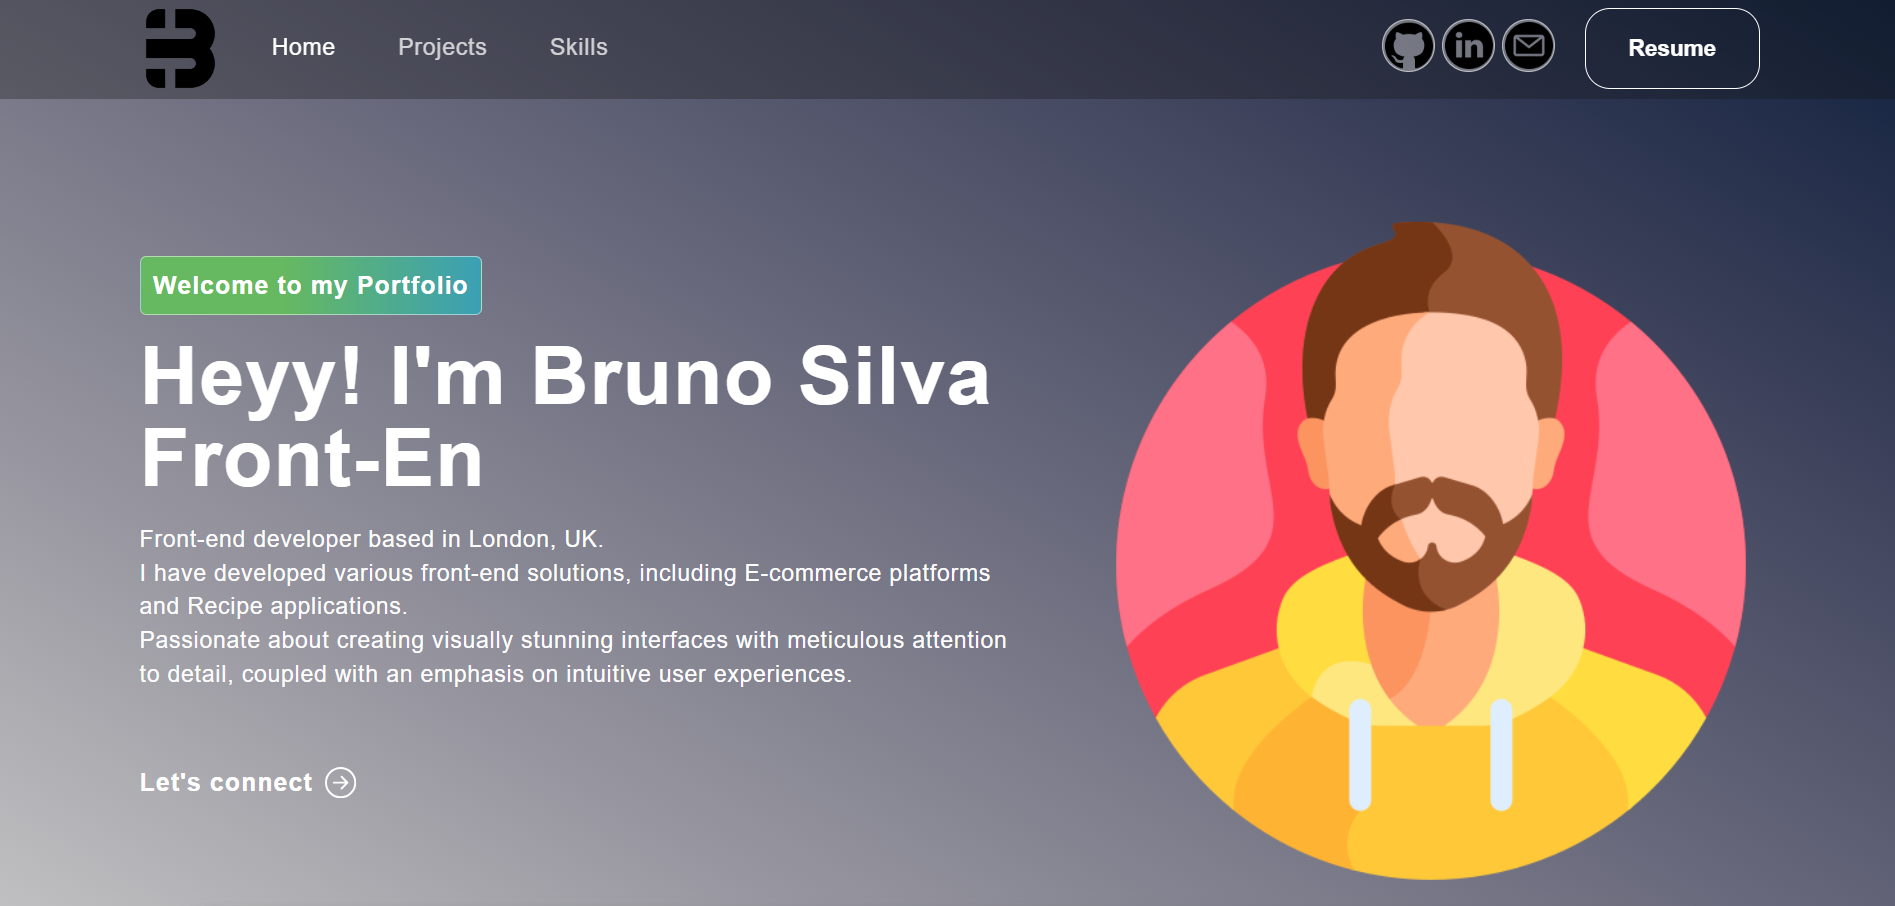
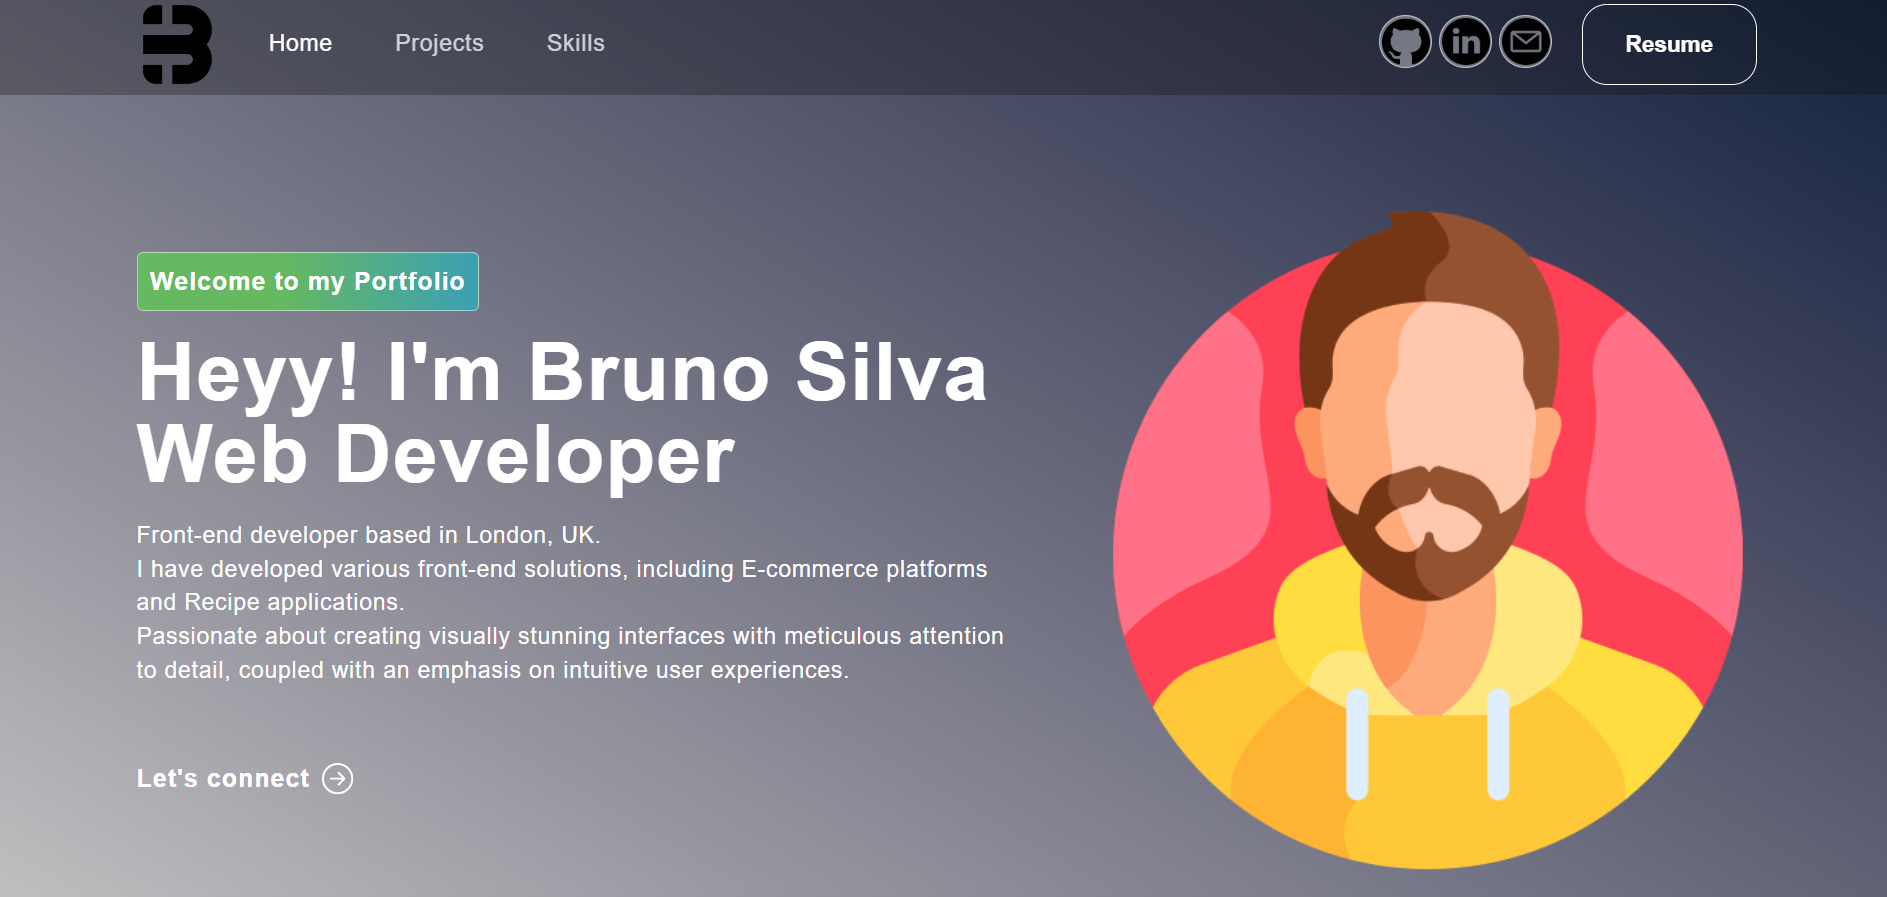
updated readme screenshot iamge

diff --git a/react-portfolio/src/components/Banner.js b/react-portfolio/src/components/Banner.js
@@ -6,7 +6,7 @@ import headerImg from "../assets/img/headerImg.png";
 export const Banner = () => {
   const [loopNum, setLoopNum] = useState(0);
   const [isDeleting, setIsDeleting] = useState(false);
-  const toRotate = ["Web Developer", "Front-End"];
+  const toRotate = ["Web Developer", "Front-End Developer"];
 
   const [text, setText] = useState("");
   const [delta, setDelta] = useState(300 - Math.random() * 10);
